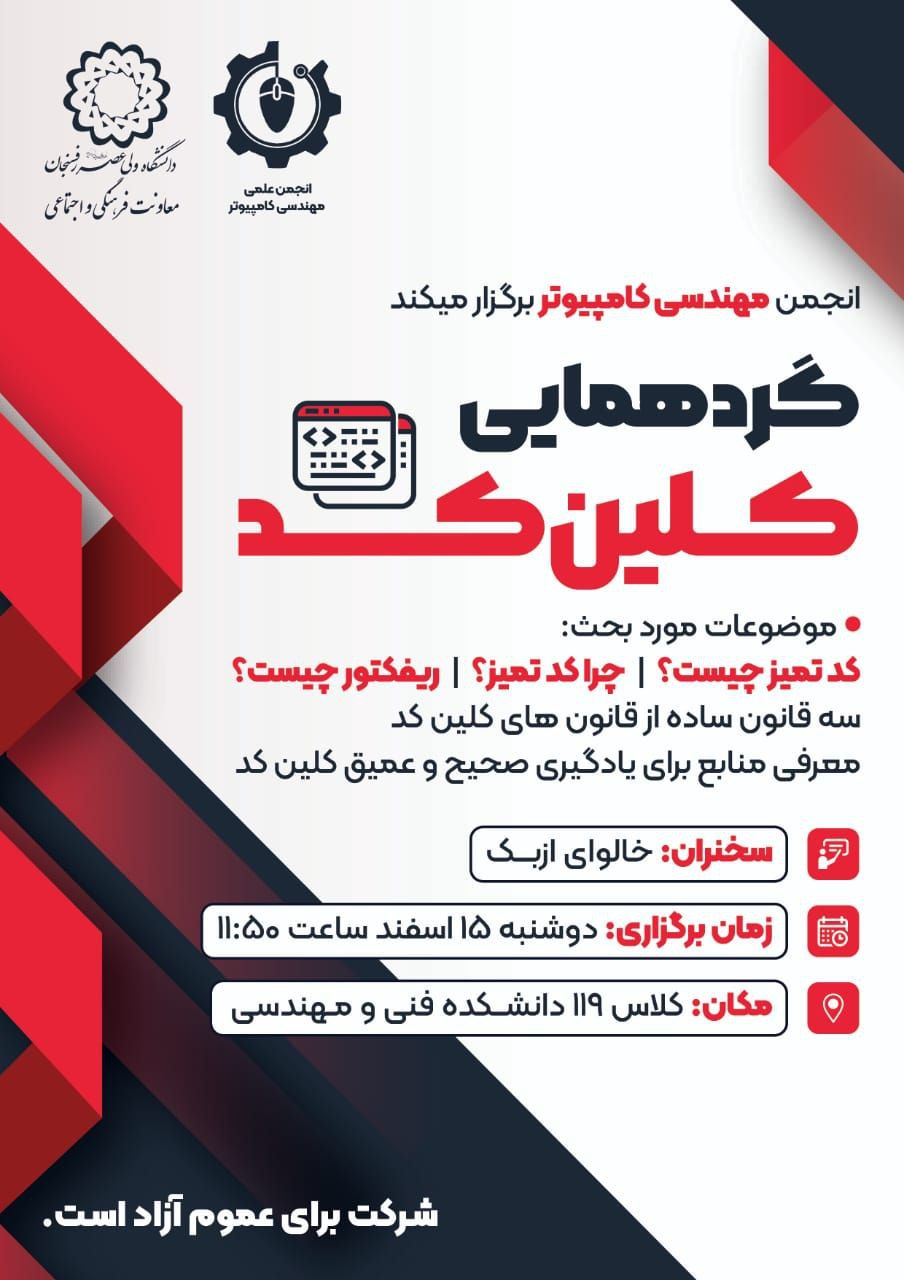
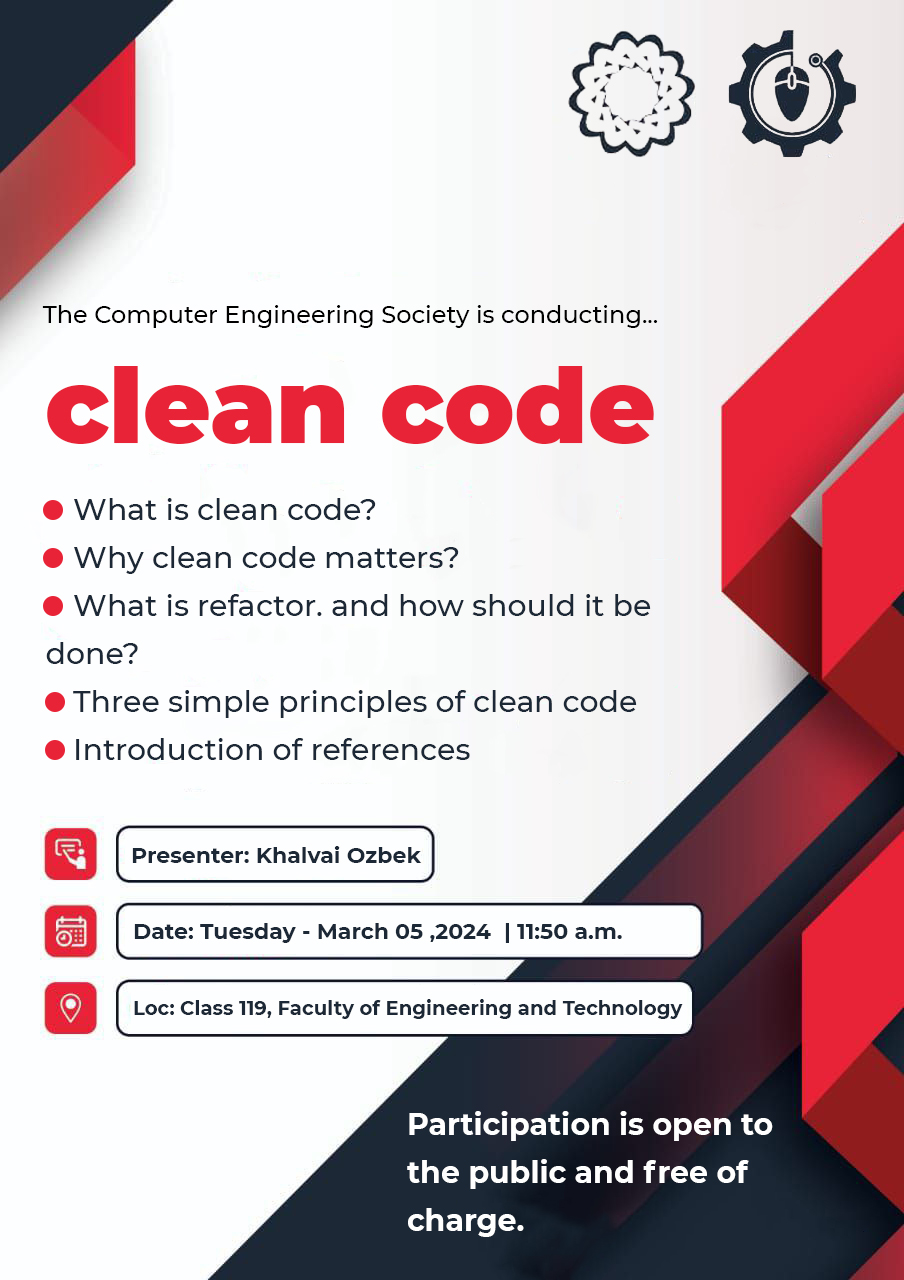
fix: presentations' posters are changed into English ones.

diff --git a/src/data/Talks.js b/src/data/Talks.js
@@ -1,8 +1,8 @@
 // TODO Add a couple lines about each project
 const data = [
   {
-    title: 'Nearest Dollar',
-    subtitle: '2015 BVP Hackathon',
+    title: 'Is high quality software architecture expensive?',
+    subtitle: 'Trade-offs in Software Architecture',
     link: 'https://youtu.be/dvyBWnzyoqQ?si=Efx9AlIeBikUMiZW',
     image: '/images/Talks/SoftwareArchitectureCost.jpg',
     date: '2024-12-09',
@@ -11,7 +11,7 @@ const data = [
   {
     title: 'Software Architecture',
     subtitle: 'Software Architecture Presentation',
-    image: '/images/Talks/SoftwareArchitecture.jpg',
+    image: '/images/Talks/software_architectures.jpg',
     date: '2024-05-30',
     desc:
       'Talked about the meaning of architecture and why we need it '
@@ -22,7 +22,7 @@ const data = [
   {
     title: 'Design Patterns',
     subtitle: 'Design Patterns Presentation',
-    image: '/images/Talks/design_pattern.jpg',
+    image: '/images/Talks/design_patterns.jpg',
     date: '2024-05-20',
     desc:
       'Spoke about the applicants of patterns and empathized on its importance.  '
